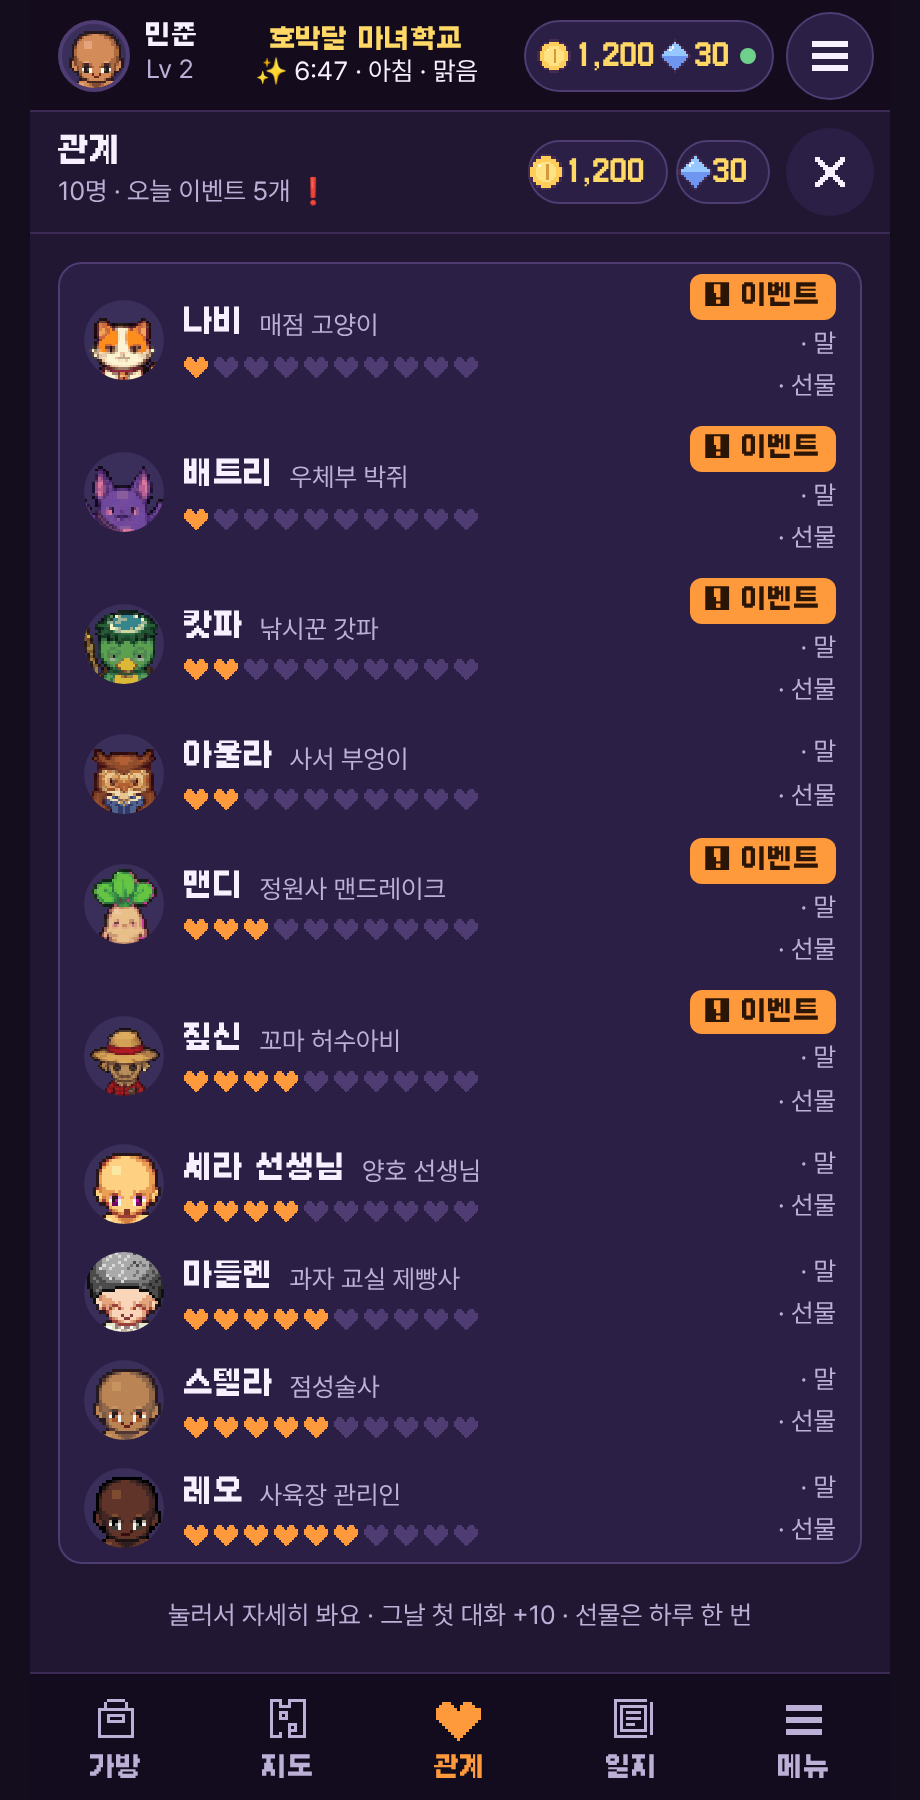
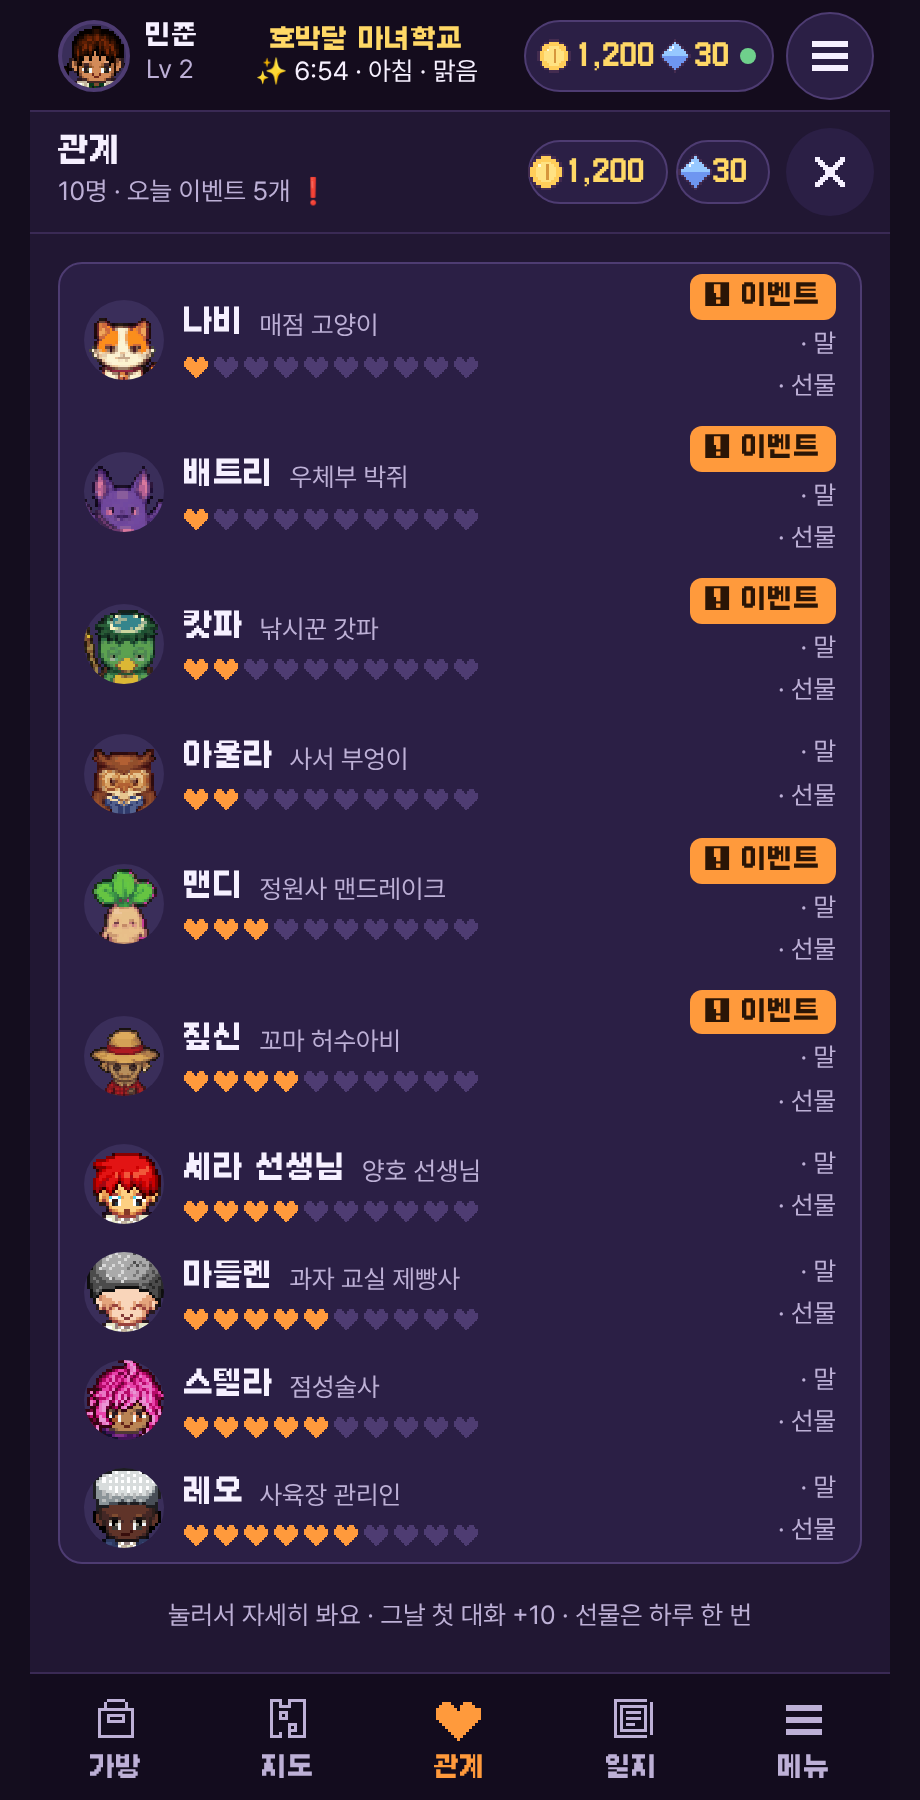
머리카락 없이 뜨던 얼굴 액자 수정(부품이 다 불러와진 뒤 채움), 대머리 계열 머리는 임의 생성에서 제외, 의뢰 구입 표시에 글자·2칸 버튼, 토마토 안내 수정
- 얼굴 이미지가 덜 불러와진 상태로 굳던 문제: head()는 완성 전엔 비우고 headFix가 채움, HUD는 아바타가 바뀌면 다시 그림
- 임의 외모(NPC·기본 학생)에서 대머리 직전·까까머리·하이앤타이트·모히칸 제외
- 의뢰 표시 위에 「토마토 사기 · 5G」 같은 글자, 2칸 안에서 버튼

Claude-Session: https://claude.ai/code/session_01HhJ2NoNCjk5kaA3GWL7UDs

diff --git a/public/index.html b/public/index.html
@@ -1096,7 +1096,12 @@ const hint = (msg, fallback) => `<div class="hint ${msg ? 'on px' : ''}">${msg |
 const backBtn = '<button class="btn ghost" id="back">닫기</button>';
 // who: 플레이어 정보(av가 있으면 그 조합) 또는 옛 look 번호
 const avOf = who => who && typeof who === 'object' ? { ...(who.av || World.Avatar.fromLook(who.look)), house: who.house } : World.Avatar.fromLook(who);
-const face = (who, size = 32, online) => { const src = World.Avatar.head(avOf(who)); return `<div class="face" style="width:${size}px;height:${size}px">${src ? `<img src="${src}" alt="" style="width:100%;height:100%;image-rendering:pixelated">` : ''}${online === undefined ? '' : `<span class="dot" style="background:${online ? '#3CCB6E' : '#C8B8E8'}"></span>`}</div>`; };
+// 얼굴 이미지: 아바타 부품이 덜 불러와졌으면 비워 두고(data-av), 다 오면 headFix가 채워요
+const headImg = (av, style = '') => { const s = World.Avatar.head(av); return `<img ${s ? `src="${s}" data-ok="1"` : ''} data-av="${esc(JSON.stringify(av))}" alt=""${style ? ` style="${style}"` : ''}>`; };
+function headFix(){ document.querySelectorAll('img[data-av]:not([data-ok])').forEach(im => { try { const s = World.Avatar.head(JSON.parse(im.dataset.av)); if (s){ im.src = s; im.dataset.ok = '1'; } } catch(e){} }); }
+let headT = 0; const headSoon = () => { clearTimeout(headT); headT = setTimeout(headFix, 80); };
+World.Avatar.onLoad(headSoon); new MutationObserver(headSoon).observe(document.body, { childList: true, subtree: true });
+const face = (who, size = 32, online) => { return `<div class="face" style="width:${size}px;height:${size}px">${headImg(avOf(who), 'width:100%;height:100%;image-rendering:pixelated')}${online === undefined ? '' : `<span class="dot" style="background:${online ? '#3CCB6E' : '#C8B8E8'}"></span>`}</div>`; };
 World.Avatar.ready.then(() => { if (typeof sheetOn !== 'undefined' && sheetOn) render(); });
 const houseTag = k => HOUSES[k] ? `<span class="tag" style="background:var(--panel2);border:1px solid ${HOUSES[k].col};color:${HOUSES[k].col}">${HOUSES[k].name}</span>` : '';
 function on(sel, fn){ app.querySelectorAll(sel).forEach(el => el.onclick = () => fn(el)); }
@@ -1125,7 +1130,7 @@ function hud(){
   World.setPets(me.cr.map(c => ({ id: c.id, k: c.k, col: c.col, adult: crAdult(c), name: c.name })));
   $('#wallet').innerHTML = `${ic('coin')}<span class="num">${me.coin.toLocaleString()}</span>${ic('mana')}<span class="num">${me.mana}</span><i id="saveDot" class="${saveState}" title="저장 상태"></i>`;
   $('#hudNick').textContent = me.nick; $('#hudLv').textContent = `Lv ${levelOf().lv}`;
-  const hf = $('#hudFace'); if (World.Avatar.loaded && !hf.dataset.k){ const s = World.Avatar.head(avOf(me)); if (s){ hf.innerHTML = `<img src="${s}" alt="" style="width:100%;height:100%;image-rendering:pixelated">`; hf.dataset.k = '1'; } }
+  const hf = $('#hudFace'), hav = avOf(me), hk = JSON.stringify(hav); if (World.Avatar.loaded && hf.dataset.k !== hk){ hf.innerHTML = headImg(hav, 'width:100%;height:100%;image-rendering:pixelated'); hf.dataset.k = hk; }   // 아바타가 바뀌면 다시 그려요 (부품이 덜 왔으면 headFix가 채워요)
   const ev = eventAt(), live = ev && Date.now() < ev.end, c = $('#evChip');
   c.hidden = !live; if (live) c.textContent = `${ev.E.name} 진행 중!`;
   if (typeof syncBuffs === 'function') syncBuffs();
@@ -2215,7 +2220,7 @@ function syncNpcs(){
 
 World.clockText = d => `${isFullMoon() ? '🌕' : { clear: '✨', rain: '☔', fog: '🌫', snow: '❄' }[weatherToday()]} ${d.getHours()}:${String(d.getMinutes()).padStart(2, '0')} · ${BAND_KO[bandNow(d.getHours())]} · ${WX_KO[weatherToday()]}${isFullMoon() ? ' · 호박달 축제' : ''}`;
 // ---- 말 걸기 ----
-function npcPortrait(n){ return n.av ? `<img src="${World.Avatar.head(npcAv(n))}" alt="">` : npcFace(n.spr); }
+function npcPortrait(n){ return n.av ? headImg(npcAv(n)) : npcFace(n.spr); }
 const npcUI = () => $('#npcui');
 function npcClose(){ npcUI().classList.remove('on'); npcUI().innerHTML = ''; }
 // 이름 뒤 조사: {player|이/가}처럼 쓰면 이름의 마지막 글자 받침을 보고 골라요 (tools/josa.py와 같은 규칙)
@@ -2326,7 +2331,7 @@ function townList(){
 }
 function townTalk(id){
   const t = TOWNS.find(x => townId(x.id) === id); if (!t) return;
-  const c = NL.cast[t.id] || {}, av = townAv(t.id), pic = av ? `<img src="${World.Avatar.head(av)}" alt="">` : `<i class="npcspr" style="width:48px;height:48px;background:url(art/cast_animals.png?v=1) ${-c.pix * 48}px 0/${48 * 5}px 48px no-repeat;image-rendering:pixelated"></i>`;
+  const c = NL.cast[t.id] || {}, av = townAv(t.id), pic = av ? headImg(av) : `<i class="npcspr" style="width:48px;height:48px;background:url(art/cast_animals.png?v=1) ${-c.pix * 48}px 0/${48 * 5}px 48px no-repeat;image-rendering:pixelated"></i>`;
   const lines = npcOver.__cast?.[t.id]?.lines || t.lines, line = fillVars(lines[Math.floor(Math.random() * lines.length)], 'sera');
   npcUI().innerHTML = `<div class="npcp px"><div class="npch"><div class="npcf">${pic}</div><div><b>${esc(townName(t.id))}</b><span class="s sub">마을 사람</span></div><button class="sx" data-nx="close">✕</button></div><div class="npct">${esc(line)}</div></div>`;
   npcUI().dataset.id = ''; npcUI().classList.add('on');
@@ -3515,7 +3520,7 @@ function renderHome(){
       <button class="tile px" id="goClass">${ic('book')}<span class="main"><span class="b">수업 ${classLeft()} / ${CLASS_MAX}</span><span class="s ${examStarted() ? 'sub' : ''}" style="${examStarted() ? '' : 'color:var(--warn)'}">${!examStarted() ? '쪽지시험 있음!' : `지식 ${me.know || 0}`}</span></span></button>
       <button class="tile px" id="goDorm">${ic('bed')}<span class="main"><span class="b">내 방</span><span class="s sub">${H.name} ${roomNo(me.house, uid || me.nick)}호</span></span></button>
     </div>
-    <button class="tile px" id="goAvatar" style="width:100%"><div class="face" style="width:40px;height:40px;background:#E8DDF8">${World.Avatar.loaded ? `<img src="${World.Avatar.head(avOf(me))}" alt="" style="width:100%;height:100%;image-rendering:pixelated">` : ''}</div><span class="main" style="flex:1"><span class="b">캐릭터 꾸미기</span><span class="s sub">머리·눈·옷·신발·소품을 바꿔요</span></span></button>
+    <button class="tile px" id="goAvatar" style="width:100%"><div class="face" style="width:40px;height:40px;background:#E8DDF8">${World.Avatar.loaded ? headImg(avOf(me), 'width:100%;height:100%;image-rendering:pixelated') : ''}</div><span class="main" style="flex:1"><span class="b">캐릭터 꾸미기</span><span class="s sub">머리·눈·옷·신발·소품을 바꿔요</span></span></button>
     <button class="tile px" id="goFish" style="width:100%">${rodIc(rodLv())}<span class="main"><span class="b">낚시 · 채집</span><span class="s sub">도감 물고기 ${FISH.filter(f => me.fdex?.[f.id]).length}/40 · 채집물 ${FORAGE.filter(f => me.fdex?.[f.id]).length}/50 · 오늘 반짝이 ${16 + (me.fg?.d === todayKey() ? (me.fg.extra || 0) - me.fg.got.length : 0)}곳</span></span></button>
     <button class="tile px" id="goCook" style="width:100%">${ic('d_crucianstew')}<span class="main"><span class="b">요리</span><span class="s sub">과자 교실 솥 · 요리책 ${Object.keys(me.cdex || {}).length}/40</span></span></button>
     <button class="tile px" id="goGames" style="width:100%"><span class="gic">🎪</span><span class="main"><span class="b">같이 놀기</span><span class="s sub">경쟁 3종 · 협동 3종 (2~8명) · 놀이 게시판</span></span></button>

diff --git a/public/world.js b/public/world.js
@@ -80,12 +80,14 @@ World.Avatar = (() => {
     return a;
   }
   const rnd = seed => () => (seed = (seed * 16807) % 2147483647) / 2147483647;
+  const BALDISH = [9, 10, 11, 12, 13];   // 대머리 직전 · 까까머리 · 하이앤타이트 · 긴 모히칸 · 짧은 모히칸
   function fromLook(look){
     const r = rnd(((look | 0) + 7) * 9973 + 1), a = { body: Math.floor(r() * 2) };
     CATS.forEach(c => { const ok = AVM.parts[c].map((p, i) => i).filter(i => !AVM.parts[c][i].k || AVM.parts[c][i].k === 'uni'); a[c] = ok[Math.floor(r() * ok.length)]; });   // 다른 학생은 교복
     a.cape = r() < .6 ? 0 : a.cape; a.hat = 0; a.acc = 0; a.neck = r() < .3 ? 0 : a.neck; a.face = r() < .6 ? 0 : a.face;
     Object.entries(COLORS).forEach(([k, p]) => { a[k] = Math.floor(r() * AVM.colors[p].length); });
     a.skinC = Math.floor(r() * 7);
+    if (BALDISH.includes(a.hair)){ const ok = AVM.parts.hair.map((p, i) => i).filter(i => !BALDISH.includes(i) && (!AVM.parts.hair[i].k || AVM.parts.hair[i].k === 'uni')); a.hair = ok[Math.floor(r() * ok.length)]; }   // 대머리 직전·까까머리·모히칸 계열은 임의로 뽑지 않아요 (꾸미기에서 직접 고를 수는 있어요)
     a.lip = r() < .5 ? 1 : 1 + Math.floor(r() * (MOUTHS.length - 1));   // 새 캐릭터·다른 학생은 입이 있어요 (반은 기본 미소)
     a.legsC = Math.floor(r() * 3); a.feetC = Math.floor(r() * 2);   // 교복은 다들 비슷하게: 하의 차콜·검정·남색, 구두 검정·갈색
     return fix(a);
@@ -190,8 +192,9 @@ World.Avatar = (() => {
   function head(av){
     if (!imgs[AVM.parts.body[0].f] || !imgs[AVM.parts.body[0].f].data) return '';
     const key = JSON.stringify(fix(av)); if (heads.has(key)) return heads.get(key);
-    const S = compose(av), c = document.createElement('canvas'); c.width = HB.s; c.height = HB.s; c.getContext('2d').drawImage(S, HB.x, HB.y, HB.s, HB.s, 0, 0, HB.s, HB.s);
-    const u = c.toDataURL(); if (cache.has(JSON.stringify(fix(av)))) heads.set(key, u); return u;
+    const S = compose(av); if (!cache.has(key)) return '';   // 머리카락·옷 그림이 다 불러와지기 전엔 비워 둬요 (덜 그려진 대머리 얼굴이 굳지 않게). 다 오면 onLoad로 알려요
+    const c = document.createElement('canvas'); c.width = HB.s; c.height = HB.s; c.getContext('2d').drawImage(S, HB.x, HB.y, HB.s, HB.s, 0, 0, HB.s, HB.s);
+    const u = c.toDataURL(); heads.set(key, u); return u;
   }
   const onLoad = fn => subs.push(fn);
   return { ready, compose, debugOwn: () => lastOwn, clear: () => { cache.clear(); heads.clear(); }, head, fix, fromLook, random, need, preload, onLoad, meta: AVM, FW, FH, CATS, HOUSES, headBox: { x: HB.x, y: HB.y, s: HB.s },
@@ -517,7 +520,7 @@ function findNear(){
   const np = people.filter(p => p.npc && Math.abs(Math.round(p.x) - mx) + Math.abs(Math.round(p.y) - my) <= 1).sort((a, b) => (Math.abs(a.x - mx) + Math.abs(a.y - my)) - (Math.abs(b.x - mx) + Math.abs(b.y - my)))[0];
   if (np) return { kind: 'npc', id: np.npc.id, name: np.name, key: 'n' + np.npc.id };
   if (spotMap === map){ const si = spots.findIndex(sp => Math.abs(sp.x - mx) + Math.abs(sp.y - my) <= 1); if (si >= 0) return { kind: 'spot', i: si, sp: spots[si], key: 's' + si }; }
-  { const mi = marks.findIndex(q => (q.map === map || q.map === rmap) && Math.abs(q.x - mx) + Math.abs(q.y - my) <= 1); if (mi >= 0) return { kind: 'mark', id: marks[mi].id, label: marks[mi].label || '조사하기', key: 'm' + marks[mi].id }; }
+  { const mi = marks.findIndex(q => (q.map === map || q.map === rmap) && Math.abs(q.x - mx) + Math.abs(q.y - my) <= 2); if (mi >= 0) return { kind: 'mark', id: marks[mi].id, label: marks[mi].label || '조사하기', key: 'm' + marks[mi].id }; }
   for (const o of [...objOrder, ...flats]){ const a = o.act || ACTS[o.name]; if (!a || !o.box || o.furn) continue;
     const dx = Math.max(Math.floor(o.box[0]) - mx, 0, mx - (Math.ceil(o.box[2]) - 1)), dy = Math.max(Math.floor(o.box[1]) - my, 0, my - (Math.ceil(o.box[3]) - 1));
     if (dx + dy === 1) return { kind: 'act', o, label: a[1], text: a[0], key: 'a' + o.name + o.x + ',' + o.y }; }
@@ -797,6 +800,7 @@ function frame(now){
   const k = cv.clientWidth / VW; dpr = window.devicePixelRatio || 1;
   if (M.rooms) M.rooms.forEach((rm, i) => { const [sx, sy] = P(rm.door[0] + .5, rm.door[1] + .5); if (sx > view.x && sx < view.x + view.w) drawTag(roomTags[i], sx, sy - 52, now); });
   if (M.pens) M.pens.forEach((pn, i) => { const [sx, sy] = P(pn.sign[0] + .5, pn.sign[1] + .5); if (sx > view.x && sx < view.x + view.w) drawTag(penTags[i], sx, sy - 20, now); });
+  marks.forEach(mk_ => { if ((mk_.map !== map && mk_.map !== rmap) || !mk_.label) return; if (Math.abs(mk_.x - me.x) + Math.abs(mk_.y - me.y) > 14) return; const [sx, sy] = P(mk_.x + .5, mk_.y + .5); if (sx > view.x && sx < view.x + view.w && sy > view.y && sy < view.y + view.h) drawTag({ t: mk_.label, k: 'npc', ev: true }, sx, sy - 18, now); });   // 할 일 표시 위에 무엇을 하는 곳인지 글자로
   people.forEach((p, i) => { const [sx, sy] = P(p.x + .5, p.y + .5); if (sx > view.x - 40 && sx < view.x + view.w + 40 && sy > view.y && sy < view.y + view.h + 60) drawTag(tags[i], sx, sy - World.Avatar.FH * ASC + 4, now); });
   const tn = performance.now();
   for (let i = says.length - 1; i >= 0; i--){ const p = says[i]; if (tn > p.say.until || (!p.me && !people.includes(p))){ sayOff(p); continue; } const [sx, sy] = P(p.x + .5, p.y + .5); p.say.el.style.left = (sx - ix) * k + 'px'; p.say.el.style.top = (sy - World.Avatar.FH * ASC - 2 - iy) * k + 'px'; }

diff --git a/tools/iso/world_tpl.js b/tools/iso/world_tpl.js
@@ -80,12 +80,14 @@ World.Avatar = (() => {
     return a;
   }
   const rnd = seed => () => (seed = (seed * 16807) % 2147483647) / 2147483647;
+  const BALDISH = [9, 10, 11, 12, 13];   // 대머리 직전 · 까까머리 · 하이앤타이트 · 긴 모히칸 · 짧은 모히칸
   function fromLook(look){
     const r = rnd(((look | 0) + 7) * 9973 + 1), a = { body: Math.floor(r() * 2) };
     CATS.forEach(c => { const ok = AVM.parts[c].map((p, i) => i).filter(i => !AVM.parts[c][i].k || AVM.parts[c][i].k === 'uni'); a[c] = ok[Math.floor(r() * ok.length)]; });   // 다른 학생은 교복
     a.cape = r() < .6 ? 0 : a.cape; a.hat = 0; a.acc = 0; a.neck = r() < .3 ? 0 : a.neck; a.face = r() < .6 ? 0 : a.face;
     Object.entries(COLORS).forEach(([k, p]) => { a[k] = Math.floor(r() * AVM.colors[p].length); });
     a.skinC = Math.floor(r() * 7);
+    if (BALDISH.includes(a.hair)){ const ok = AVM.parts.hair.map((p, i) => i).filter(i => !BALDISH.includes(i) && (!AVM.parts.hair[i].k || AVM.parts.hair[i].k === 'uni')); a.hair = ok[Math.floor(r() * ok.length)]; }   // 대머리 직전·까까머리·모히칸 계열은 임의로 뽑지 않아요 (꾸미기에서 직접 고를 수는 있어요)
     a.lip = r() < .5 ? 1 : 1 + Math.floor(r() * (MOUTHS.length - 1));   // 새 캐릭터·다른 학생은 입이 있어요 (반은 기본 미소)
     a.legsC = Math.floor(r() * 3); a.feetC = Math.floor(r() * 2);   // 교복은 다들 비슷하게: 하의 차콜·검정·남색, 구두 검정·갈색
     return fix(a);
@@ -190,8 +192,9 @@ World.Avatar = (() => {
   function head(av){
     if (!imgs[AVM.parts.body[0].f] || !imgs[AVM.parts.body[0].f].data) return '';
     const key = JSON.stringify(fix(av)); if (heads.has(key)) return heads.get(key);
-    const S = compose(av), c = document.createElement('canvas'); c.width = HB.s; c.height = HB.s; c.getContext('2d').drawImage(S, HB.x, HB.y, HB.s, HB.s, 0, 0, HB.s, HB.s);
-    const u = c.toDataURL(); if (cache.has(JSON.stringify(fix(av)))) heads.set(key, u); return u;
+    const S = compose(av); if (!cache.has(key)) return '';   // 머리카락·옷 그림이 다 불러와지기 전엔 비워 둬요 (덜 그려진 대머리 얼굴이 굳지 않게). 다 오면 onLoad로 알려요
+    const c = document.createElement('canvas'); c.width = HB.s; c.height = HB.s; c.getContext('2d').drawImage(S, HB.x, HB.y, HB.s, HB.s, 0, 0, HB.s, HB.s);
+    const u = c.toDataURL(); heads.set(key, u); return u;
   }
   const onLoad = fn => subs.push(fn);
   return { ready, compose, debugOwn: () => lastOwn, clear: () => { cache.clear(); heads.clear(); }, head, fix, fromLook, random, need, preload, onLoad, meta: AVM, FW, FH, CATS, HOUSES, headBox: { x: HB.x, y: HB.y, s: HB.s },
@@ -517,7 +520,7 @@ function findNear(){
   const np = people.filter(p => p.npc && Math.abs(Math.round(p.x) - mx) + Math.abs(Math.round(p.y) - my) <= 1).sort((a, b) => (Math.abs(a.x - mx) + Math.abs(a.y - my)) - (Math.abs(b.x - mx) + Math.abs(b.y - my)))[0];
   if (np) return { kind: 'npc', id: np.npc.id, name: np.name, key: 'n' + np.npc.id };
   if (spotMap === map){ const si = spots.findIndex(sp => Math.abs(sp.x - mx) + Math.abs(sp.y - my) <= 1); if (si >= 0) return { kind: 'spot', i: si, sp: spots[si], key: 's' + si }; }
-  { const mi = marks.findIndex(q => (q.map === map || q.map === rmap) && Math.abs(q.x - mx) + Math.abs(q.y - my) <= 1); if (mi >= 0) return { kind: 'mark', id: marks[mi].id, label: marks[mi].label || '조사하기', key: 'm' + marks[mi].id }; }
+  { const mi = marks.findIndex(q => (q.map === map || q.map === rmap) && Math.abs(q.x - mx) + Math.abs(q.y - my) <= 2); if (mi >= 0) return { kind: 'mark', id: marks[mi].id, label: marks[mi].label || '조사하기', key: 'm' + marks[mi].id }; }
   for (const o of [...objOrder, ...flats]){ const a = o.act || ACTS[o.name]; if (!a || !o.box || o.furn) continue;
     const dx = Math.max(Math.floor(o.box[0]) - mx, 0, mx - (Math.ceil(o.box[2]) - 1)), dy = Math.max(Math.floor(o.box[1]) - my, 0, my - (Math.ceil(o.box[3]) - 1));
     if (dx + dy === 1) return { kind: 'act', o, label: a[1], text: a[0], key: 'a' + o.name + o.x + ',' + o.y }; }
@@ -797,6 +800,7 @@ function frame(now){
   const k = cv.clientWidth / VW; dpr = window.devicePixelRatio || 1;
   if (M.rooms) M.rooms.forEach((rm, i) => { const [sx, sy] = P(rm.door[0] + .5, rm.door[1] + .5); if (sx > view.x && sx < view.x + view.w) drawTag(roomTags[i], sx, sy - 52, now); });
   if (M.pens) M.pens.forEach((pn, i) => { const [sx, sy] = P(pn.sign[0] + .5, pn.sign[1] + .5); if (sx > view.x && sx < view.x + view.w) drawTag(penTags[i], sx, sy - 20, now); });
+  marks.forEach(mk_ => { if ((mk_.map !== map && mk_.map !== rmap) || !mk_.label) return; if (Math.abs(mk_.x - me.x) + Math.abs(mk_.y - me.y) > 14) return; const [sx, sy] = P(mk_.x + .5, mk_.y + .5); if (sx > view.x && sx < view.x + view.w && sy > view.y && sy < view.y + view.h) drawTag({ t: mk_.label, k: 'npc', ev: true }, sx, sy - 18, now); });   // 할 일 표시 위에 무엇을 하는 곳인지 글자로
   people.forEach((p, i) => { const [sx, sy] = P(p.x + .5, p.y + .5); if (sx > view.x - 40 && sx < view.x + view.w + 40 && sy > view.y && sy < view.y + view.h + 60) drawTag(tags[i], sx, sy - World.Avatar.FH * ASC + 4, now); });
   const tn = performance.now();
   for (let i = says.length - 1; i >= 0; i--){ const p = says[i]; if (tn > p.say.until || (!p.me && !people.includes(p))){ sayOff(p); continue; } const [sx, sy] = P(p.x + .5, p.y + .5); p.say.el.style.left = (sx - ix) * k + 'px'; p.say.el.style.top = (sy - World.Avatar.FH * ASC - 2 - iy) * k + 'px'; }
